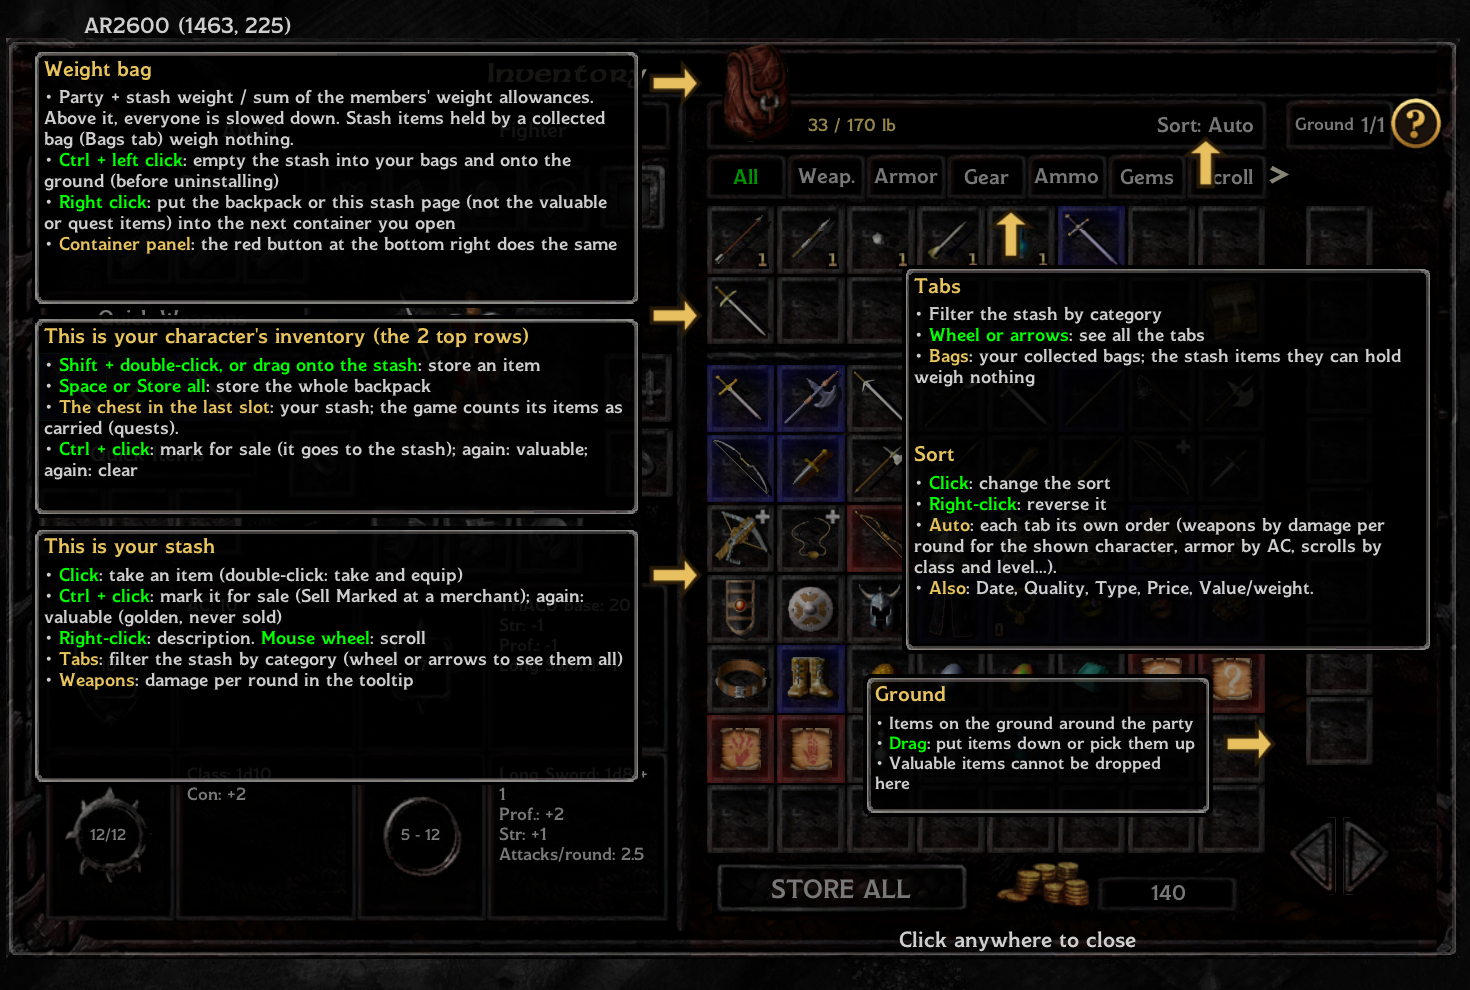
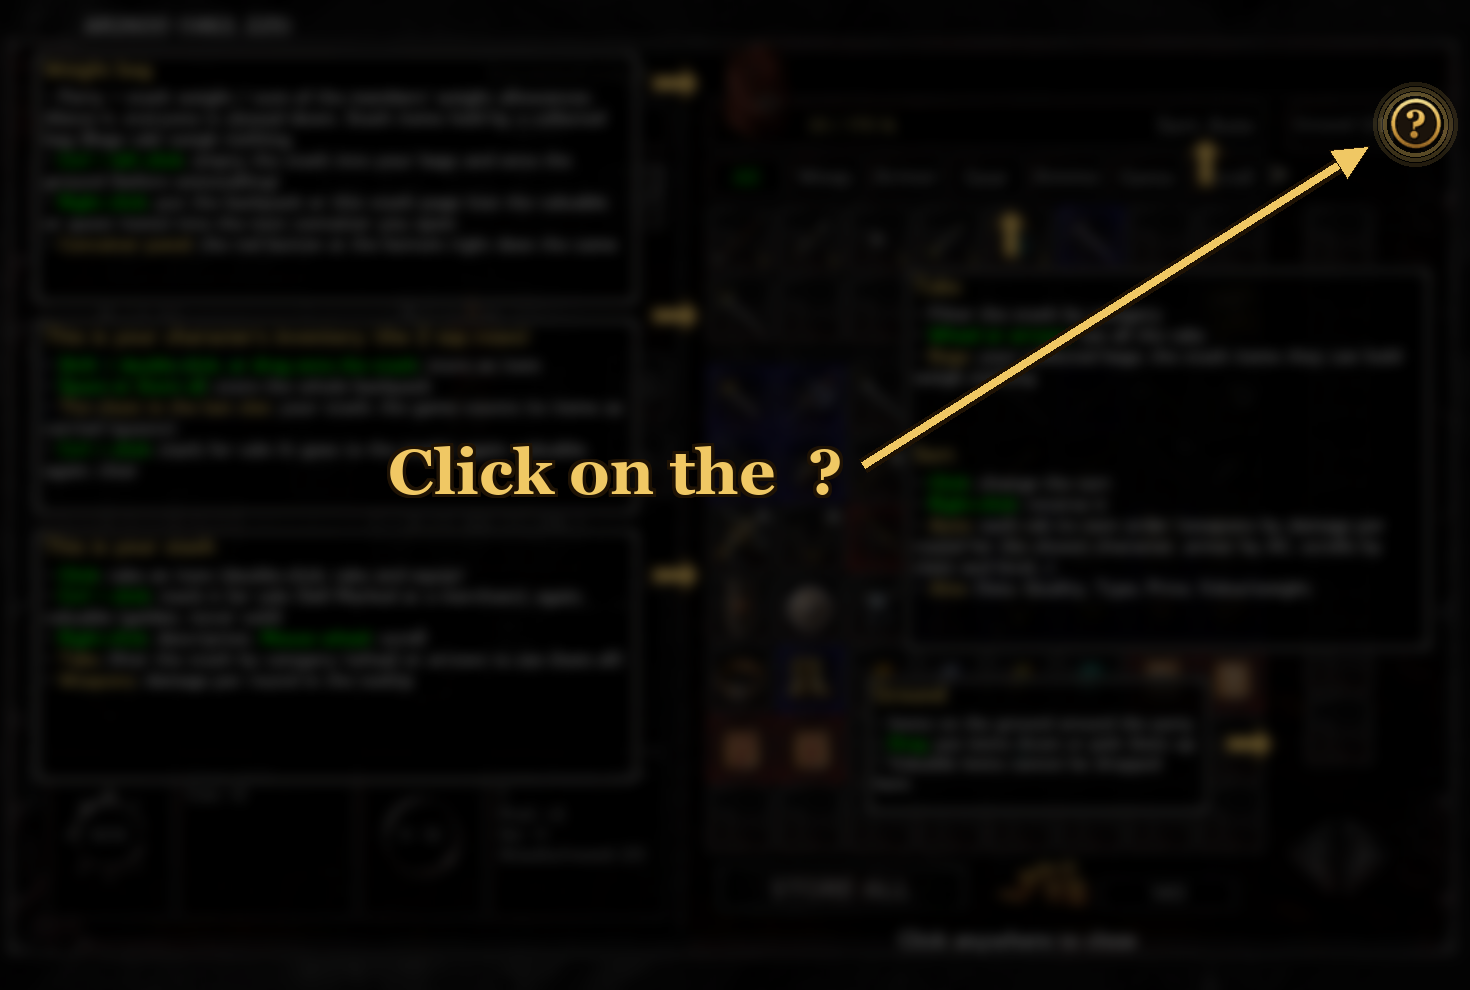
v1.2.1: weapon tooltip THAC0 and damage per round independent of the weapon in hand; help screenshot
- NUMBEROFATTACKS 7 = 1.5 attacks (was read as 2.5)
- Untrained weapon penalty by class for every weapon

diff --git a/PartyStash/readme/readme-ukrainian.html b/PartyStash/readme/readme-ukrainian.html
@@ -1,8 +1,8 @@
 <!DOCTYPE html>
 <html lang="uk"><head><meta charset="utf-8">
-<title>Party Stash v1.2</title>
+<title>Party Stash v1.2.1</title>
 <style>body{font-family:Segoe UI,Arial,sans-serif;max-width:900px;margin:2em auto;padding:0 1em;background:#1b1712;color:#e8dcc4;line-height:1.5}h1,h2{color:#e6c35c}a{color:#e6c35c}table{border-collapse:collapse;width:100%}td,th{border:1px solid #5a4a32;padding:.4em .6em;text-align:left}th{background:#2a2219}img{max-width:100%;border:1px solid #5a4a32;margin:.5em 0}.v{color:#a89878}</style></head><body>
-<h1>Party Stash <span class="v">v1.2</span></h1>
+<h1>Party Stash <span class="v">v1.2.1</span></h1>
 <p>Нескінченна скриня, спільна для всього загону, у стилі <strong>Pillars of Eternity</strong>, вбудована в перероблену сторінку спорядження. Для <strong>Baldur's Gate: Enhanced Edition</strong> (із <strong>Siege of Dragonspear</strong> або без), <strong>Baldur's Gate II: Enhanced Edition</strong> та <strong>EET</strong>.</p>
 <p><img src="inventory_bg1.png" alt="Спорядження, вигляд Baldur&#x27;s Gate 1"></p>
 <h2>Можливості</h2><ul>

diff --git a/PartyStash/readme/readme-russian.html b/PartyStash/readme/readme-russian.html
@@ -1,8 +1,8 @@
 <!DOCTYPE html>
 <html lang="ru"><head><meta charset="utf-8">
-<title>Party Stash v1.2</title>
+<title>Party Stash v1.2.1</title>
 <style>body{font-family:Segoe UI,Arial,sans-serif;max-width:900px;margin:2em auto;padding:0 1em;background:#1b1712;color:#e8dcc4;line-height:1.5}h1,h2{color:#e6c35c}a{color:#e6c35c}table{border-collapse:collapse;width:100%}td,th{border:1px solid #5a4a32;padding:.4em .6em;text-align:left}th{background:#2a2219}img{max-width:100%;border:1px solid #5a4a32;margin:.5em 0}.v{color:#a89878}</style></head><body>
-<h1>Party Stash <span class="v">v1.2</span></h1>
+<h1>Party Stash <span class="v">v1.2.1</span></h1>
 <p>Бесконечный сундук, общий для всего отряда, в духе <strong>Pillars of Eternity</strong>, встроенный в переработанную страницу инвентаря. Для <strong>Baldur's Gate: Enhanced Edition</strong> (с <strong>Siege of Dragonspear</strong> или без), <strong>Baldur's Gate II: Enhanced Edition</strong> и <strong>EET</strong>.</p>
 <p><img src="inventory_bg1.png" alt="Инвентарь, оформление Baldur&#x27;s Gate 1"></p>
 <h2>Возможности</h2><ul>

diff --git a/PartyStash/readme/readme-japanese.html b/PartyStash/readme/readme-japanese.html
@@ -1,8 +1,8 @@
 <!DOCTYPE html>
 <html lang="ja"><head><meta charset="utf-8">
-<title>Party Stash v1.2</title>
+<title>Party Stash v1.2.1</title>
 <style>body{font-family:Segoe UI,Arial,sans-serif;max-width:900px;margin:2em auto;padding:0 1em;background:#1b1712;color:#e8dcc4;line-height:1.5}h1,h2{color:#e6c35c}a{color:#e6c35c}table{border-collapse:collapse;width:100%}td,th{border:1px solid #5a4a32;padding:.4em .6em;text-align:left}th{background:#2a2219}img{max-width:100%;border:1px solid #5a4a32;margin:.5em 0}.v{color:#a89878}</style></head><body>
-<h1>Party Stash <span class="v">v1.2</span></h1>
+<h1>Party Stash <span class="v">v1.2.1</span></h1>
 <p>パーティ全員で共有する無限の収納箱を、<strong>Pillars of Eternity</strong> 風に、作り直したインベントリ画面に組み込みます。<strong>Baldur's Gate: Enhanced Edition</strong>（<strong>Siege of Dragonspear</strong> の有無を問わず）、<strong>Baldur's Gate II: Enhanced Edition</strong>、<strong>EET</strong> 用。</p>
 <p><img src="inventory_bg1.png" alt="インベントリ、バルダーズ・ゲート 1 の外観"></p>
 <h2>機能</h2><ul>

diff --git a/PartyStash/readme/readme-turkish.html b/PartyStash/readme/readme-turkish.html
@@ -1,8 +1,8 @@
 <!DOCTYPE html>
 <html lang="tr"><head><meta charset="utf-8">
-<title>Party Stash v1.2</title>
+<title>Party Stash v1.2.1</title>
 <style>body{font-family:Segoe UI,Arial,sans-serif;max-width:900px;margin:2em auto;padding:0 1em;background:#1b1712;color:#e8dcc4;line-height:1.5}h1,h2{color:#e6c35c}a{color:#e6c35c}table{border-collapse:collapse;width:100%}td,th{border:1px solid #5a4a32;padding:.4em .6em;text-align:left}th{background:#2a2219}img{max-width:100%;border:1px solid #5a4a32;margin:.5em 0}.v{color:#a89878}</style></head><body>
-<h1>Party Stash <span class="v">v1.2</span></h1>
+<h1>Party Stash <span class="v">v1.2.1</span></h1>
 <p>Tüm grubun paylaştığı sonsuz bir sandık, <strong>Pillars of Eternity</strong> tarzında, yeniden tasarlanmış bir envanter sayfasına yerleştirildi. <strong>Baldur's Gate: Enhanced Edition</strong> (<strong>Siege of Dragonspear</strong> ile veya olmadan), <strong>Baldur's Gate II: Enhanced Edition</strong> ve <strong>EET</strong> için.</p>
 <p><img src="inventory_bg1.png" alt="Envanter, Baldur&#x27;s Gate 1 görünümü"></p>
 <h2>Özellikler</h2><ul>

diff --git a/PartyStash/readme/readme-korean.html b/PartyStash/readme/readme-korean.html
@@ -1,8 +1,8 @@
 <!DOCTYPE html>
 <html lang="ko"><head><meta charset="utf-8">
-<title>Party Stash v1.2</title>
+<title>Party Stash v1.2.1</title>
 <style>body{font-family:Segoe UI,Arial,sans-serif;max-width:900px;margin:2em auto;padding:0 1em;background:#1b1712;color:#e8dcc4;line-height:1.5}h1,h2{color:#e6c35c}a{color:#e6c35c}table{border-collapse:collapse;width:100%}td,th{border:1px solid #5a4a32;padding:.4em .6em;text-align:left}th{background:#2a2219}img{max-width:100%;border:1px solid #5a4a32;margin:.5em 0}.v{color:#a89878}</style></head><body>
-<h1>Party Stash <span class="v">v1.2</span></h1>
+<h1>Party Stash <span class="v">v1.2.1</span></h1>
 <p>파티 전체가 공유하는 무한 보관함을 <strong>Pillars of Eternity</strong> 방식으로, 새로 디자인한 인벤토리 화면에 넣었습니다. <strong>Baldur's Gate: Enhanced Edition</strong>(<strong>Siege of Dragonspear</strong> 포함 여부 무관), <strong>Baldur's Gate II: Enhanced Edition</strong>, <strong>EET</strong>용.</p>
 <p><img src="inventory_bg1.png" alt="인벤토리, 발더스 게이트 1 외형"></p>
 <h2>기능</h2><ul>

diff --git a/PartyStash/readme/readme-hungarian.html b/PartyStash/readme/readme-hungarian.html
@@ -1,8 +1,8 @@
 <!DOCTYPE html>
 <html lang="hu"><head><meta charset="utf-8">
-<title>Party Stash v1.2</title>
+<title>Party Stash v1.2.1</title>
 <style>body{font-family:Segoe UI,Arial,sans-serif;max-width:900px;margin:2em auto;padding:0 1em;background:#1b1712;color:#e8dcc4;line-height:1.5}h1,h2{color:#e6c35c}a{color:#e6c35c}table{border-collapse:collapse;width:100%}td,th{border:1px solid #5a4a32;padding:.4em .6em;text-align:left}th{background:#2a2219}img{max-width:100%;border:1px solid #5a4a32;margin:.5em 0}.v{color:#a89878}</style></head><body>
-<h1>Party Stash <span class="v">v1.2</span></h1>
+<h1>Party Stash <span class="v">v1.2.1</span></h1>
 <p>Végtelen láda az egész csapatnak, a <strong>Pillars of Eternity</strong> mintájára, egy újratervezett felszerelés oldalba építve. A <strong>Baldur's Gate: Enhanced Edition</strong>höz (<strong>Siege of Dragonspear</strong>rel vagy anélkül), a <strong>Baldur's Gate II: Enhanced Edition</strong>höz és az <strong>EET</strong>-hez.</p>
 <p><img src="inventory_bg1.png" alt="Felszerelés, Baldur&#x27;s Gate 1 kinézet"></p>
 <h2>Funkciók</h2><ul>

diff --git a/PartyStash/readme/readme-spanish.html b/PartyStash/readme/readme-spanish.html
@@ -1,8 +1,8 @@
 <!DOCTYPE html>
 <html lang="es"><head><meta charset="utf-8">
-<title>Party Stash v1.2</title>
+<title>Party Stash v1.2.1</title>
 <style>body{font-family:Segoe UI,Arial,sans-serif;max-width:900px;margin:2em auto;padding:0 1em;background:#1b1712;color:#e8dcc4;line-height:1.5}h1,h2{color:#e6c35c}a{color:#e6c35c}table{border-collapse:collapse;width:100%}td,th{border:1px solid #5a4a32;padding:.4em .6em;text-align:left}th{background:#2a2219}img{max-width:100%;border:1px solid #5a4a32;margin:.5em 0}.v{color:#a89878}</style></head><body>
-<h1>Party Stash <span class="v">v1.2</span></h1>
+<h1>Party Stash <span class="v">v1.2.1</span></h1>
 <p>Un baúl infinito compartido por todo el grupo, al estilo de <strong>Pillars of Eternity</strong>, integrado en una página de inventario rediseñada. Para <strong>Baldur's Gate: Enhanced Edition</strong> (con o sin <strong>Siege of Dragonspear</strong>), <strong>Baldur's Gate II: Enhanced Edition</strong> y <strong>EET</strong>.</p>
 <p><img src="inventory_bg1.png" alt="Inventario, aspecto Baldur&#x27;s Gate 1"></p>
 <h2>Características</h2><ul>

diff --git a/PartyStash/readme/readme-italian.html b/PartyStash/readme/readme-italian.html
@@ -1,8 +1,8 @@
 <!DOCTYPE html>
 <html lang="it"><head><meta charset="utf-8">
-<title>Party Stash v1.2</title>
+<title>Party Stash v1.2.1</title>
 <style>body{font-family:Segoe UI,Arial,sans-serif;max-width:900px;margin:2em auto;padding:0 1em;background:#1b1712;color:#e8dcc4;line-height:1.5}h1,h2{color:#e6c35c}a{color:#e6c35c}table{border-collapse:collapse;width:100%}td,th{border:1px solid #5a4a32;padding:.4em .6em;text-align:left}th{background:#2a2219}img{max-width:100%;border:1px solid #5a4a32;margin:.5em 0}.v{color:#a89878}</style></head><body>
-<h1>Party Stash <span class="v">v1.2</span></h1>
+<h1>Party Stash <span class="v">v1.2.1</span></h1>
 <p>Un baule infinito condiviso da tutto il gruppo, in stile <strong>Pillars of Eternity</strong>, integrato in una pagina dell'inventario ridisegnata. Per <strong>Baldur's Gate: Enhanced Edition</strong> (con o senza <strong>Siege of Dragonspear</strong>), <strong>Baldur's Gate II: Enhanced Edition</strong> ed <strong>EET</strong>.</p>
 <p><img src="inventory_bg1.png" alt="Inventario, aspetto Baldur&#x27;s Gate 1"></p>
 <h2>Caratteristiche</h2><ul>

diff --git a/PartyStash/readme/readme-portuguese.html b/PartyStash/readme/readme-portuguese.html
@@ -1,8 +1,8 @@
 <!DOCTYPE html>
 <html lang="pt-BR"><head><meta charset="utf-8">
-<title>Party Stash v1.2</title>
+<title>Party Stash v1.2.1</title>
 <style>body{font-family:Segoe UI,Arial,sans-serif;max-width:900px;margin:2em auto;padding:0 1em;background:#1b1712;color:#e8dcc4;line-height:1.5}h1,h2{color:#e6c35c}a{color:#e6c35c}table{border-collapse:collapse;width:100%}td,th{border:1px solid #5a4a32;padding:.4em .6em;text-align:left}th{background:#2a2219}img{max-width:100%;border:1px solid #5a4a32;margin:.5em 0}.v{color:#a89878}</style></head><body>
-<h1>Party Stash <span class="v">v1.2</span></h1>
+<h1>Party Stash <span class="v">v1.2.1</span></h1>
 <p>Um baú infinito compartilhado por todo o grupo, no estilo de <strong>Pillars of Eternity</strong>, integrado a uma página de inventário redesenhada. Para <strong>Baldur's Gate: Enhanced Edition</strong> (com ou sem <strong>Siege of Dragonspear</strong>), <strong>Baldur's Gate II: Enhanced Edition</strong> e <strong>EET</strong>.</p>
 <p><img src="inventory_bg1.png" alt="Inventário, visual Baldur&#x27;s Gate 1"></p>
 <h2>Recursos</h2><ul>

diff --git a/PartyStash/readme/readme-german.html b/PartyStash/readme/readme-german.html
@@ -1,8 +1,8 @@
 <!DOCTYPE html>
 <html lang="de"><head><meta charset="utf-8">
-<title>Party Stash v1.2</title>
+<title>Party Stash v1.2.1</title>
 <style>body{font-family:Segoe UI,Arial,sans-serif;max-width:900px;margin:2em auto;padding:0 1em;background:#1b1712;color:#e8dcc4;line-height:1.5}h1,h2{color:#e6c35c}a{color:#e6c35c}table{border-collapse:collapse;width:100%}td,th{border:1px solid #5a4a32;padding:.4em .6em;text-align:left}th{background:#2a2219}img{max-width:100%;border:1px solid #5a4a32;margin:.5em 0}.v{color:#a89878}</style></head><body>
-<h1>Party Stash <span class="v">v1.2</span></h1>
+<h1>Party Stash <span class="v">v1.2.1</span></h1>
 <p>Eine unendliche Truhe für die ganze Gruppe im Stil von <strong>Pillars of Eternity</strong>, eingebaut in eine neu gestaltete Inventarseite. Für <strong>Baldur's Gate: Enhanced Edition</strong> (mit oder ohne <strong>Siege of Dragonspear</strong>), <strong>Baldur's Gate II: Enhanced Edition</strong> und <strong>EET</strong>.</p>
 <p><img src="inventory_bg1.png" alt="Inventar, Aussehen Baldur&#x27;s Gate 1"></p>
 <h2>Funktionen</h2><ul>

diff --git a/PartyStash/readme/readme-french.html b/PartyStash/readme/readme-french.html
@@ -1,8 +1,8 @@
 <!DOCTYPE html>
 <html lang="fr"><head><meta charset="utf-8">
-<title>Party Stash v1.2</title>
+<title>Party Stash v1.2.1</title>
 <style>body{font-family:Segoe UI,Arial,sans-serif;max-width:900px;margin:2em auto;padding:0 1em;background:#1b1712;color:#e8dcc4;line-height:1.5}h1,h2{color:#e6c35c}a{color:#e6c35c}table{border-collapse:collapse;width:100%}td,th{border:1px solid #5a4a32;padding:.4em .6em;text-align:left}th{background:#2a2219}img{max-width:100%;border:1px solid #5a4a32;margin:.5em 0}.v{color:#a89878}</style></head><body>
-<h1>Party Stash <span class="v">v1.2</span></h1>
+<h1>Party Stash <span class="v">v1.2.1</span></h1>
 <p>Un coffre infini partagé par tout le groupe, façon <strong>Pillars of Eternity</strong>, intégré à une page d'inventaire repensée. Pour <strong>Baldur's Gate: Enhanced Edition</strong> (avec ou sans <strong>Siege of Dragonspear</strong>), <strong>Baldur's Gate II: Enhanced Edition</strong> et <strong>EET</strong>.</p>
 <p><img src="inventory_bg1.png" alt="Inventaire, look Baldur&#x27;s Gate 1"></p>
 <h2>Fonctionnalités</h2><ul>

diff --git a/PartyStash/readme/readme-polish.html b/PartyStash/readme/readme-polish.html
@@ -1,8 +1,8 @@
 <!DOCTYPE html>
 <html lang="pl"><head><meta charset="utf-8">
-<title>Party Stash v1.2</title>
+<title>Party Stash v1.2.1</title>
 <style>body{font-family:Segoe UI,Arial,sans-serif;max-width:900px;margin:2em auto;padding:0 1em;background:#1b1712;color:#e8dcc4;line-height:1.5}h1,h2{color:#e6c35c}a{color:#e6c35c}table{border-collapse:collapse;width:100%}td,th{border:1px solid #5a4a32;padding:.4em .6em;text-align:left}th{background:#2a2219}img{max-width:100%;border:1px solid #5a4a32;margin:.5em 0}.v{color:#a89878}</style></head><body>
-<h1>Party Stash <span class="v">v1.2</span></h1>
+<h1>Party Stash <span class="v">v1.2.1</span></h1>
 <p>Nieskończona skrzynia wspólna dla całej drużyny, w stylu <strong>Pillars of Eternity</strong>, wbudowana w przeprojektowaną stronę ekwipunku. Dla <strong>Baldur's Gate: Enhanced Edition</strong> (z <strong>Siege of Dragonspear</strong> lub bez), <strong>Baldur's Gate II: Enhanced Edition</strong> i <strong>EET</strong>.</p>
 <p><img src="inventory_bg1.png" alt="Ekwipunek, wygląd Baldur&#x27;s Gate 1"></p>
 <h2>Funkcje</h2><ul>
